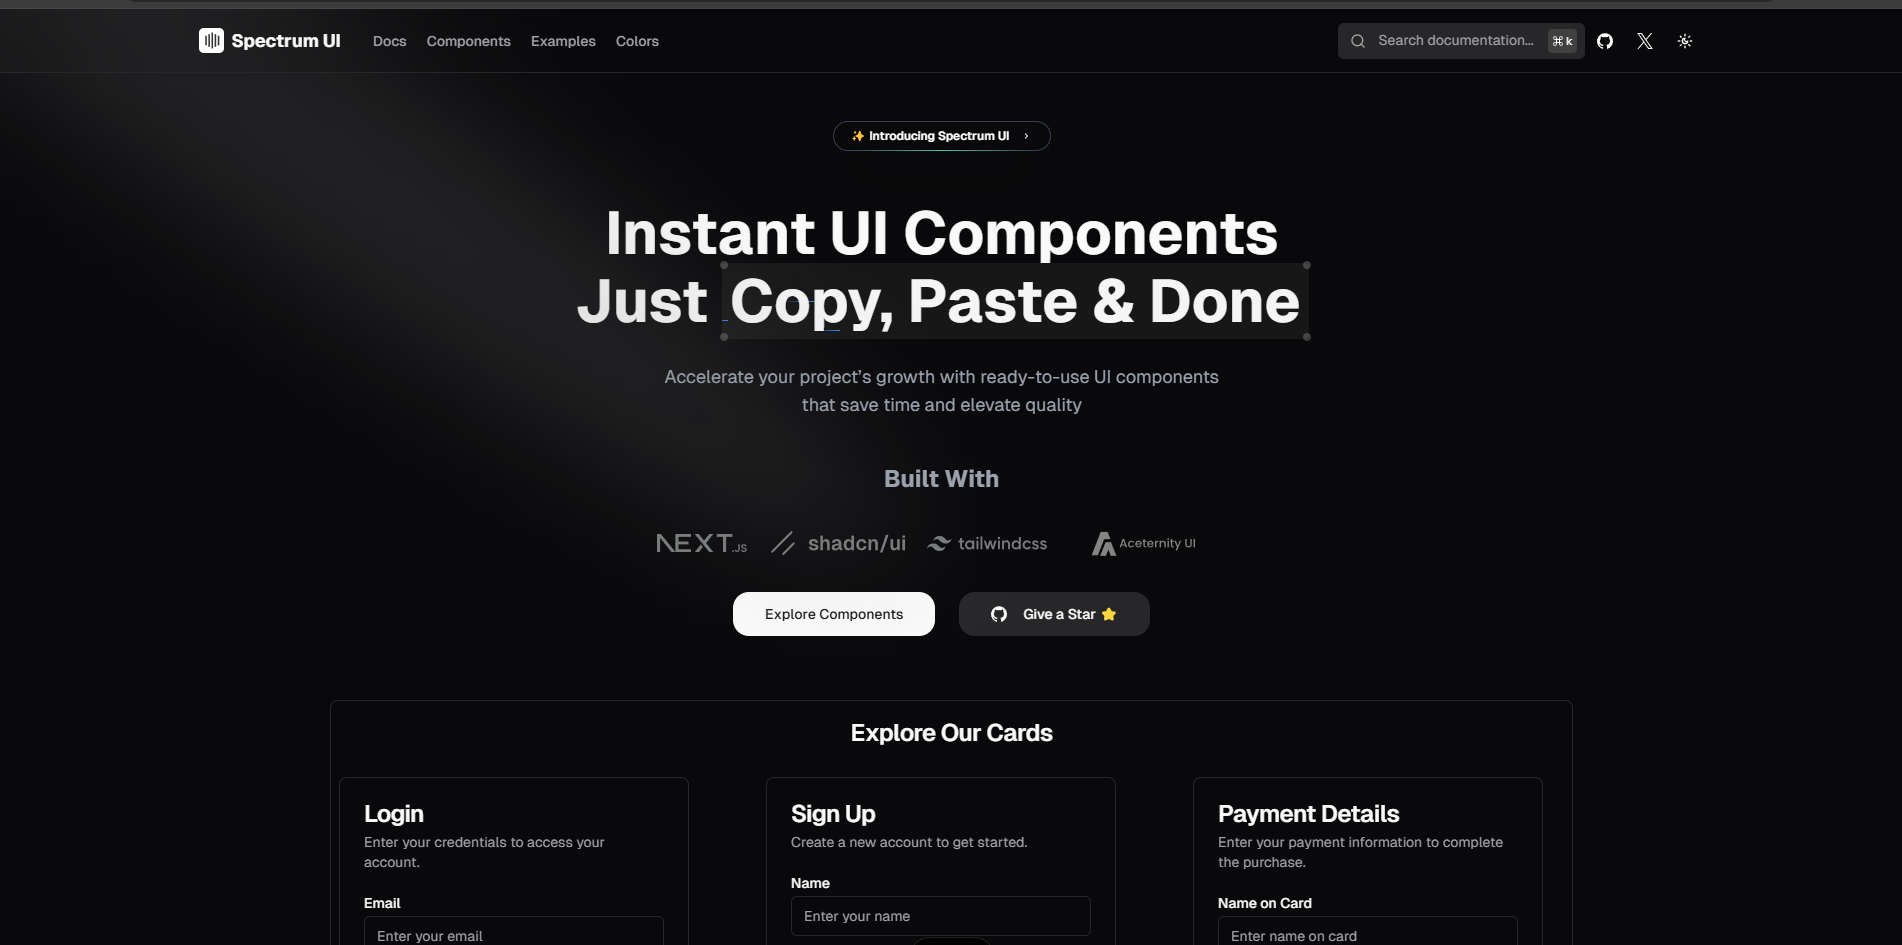
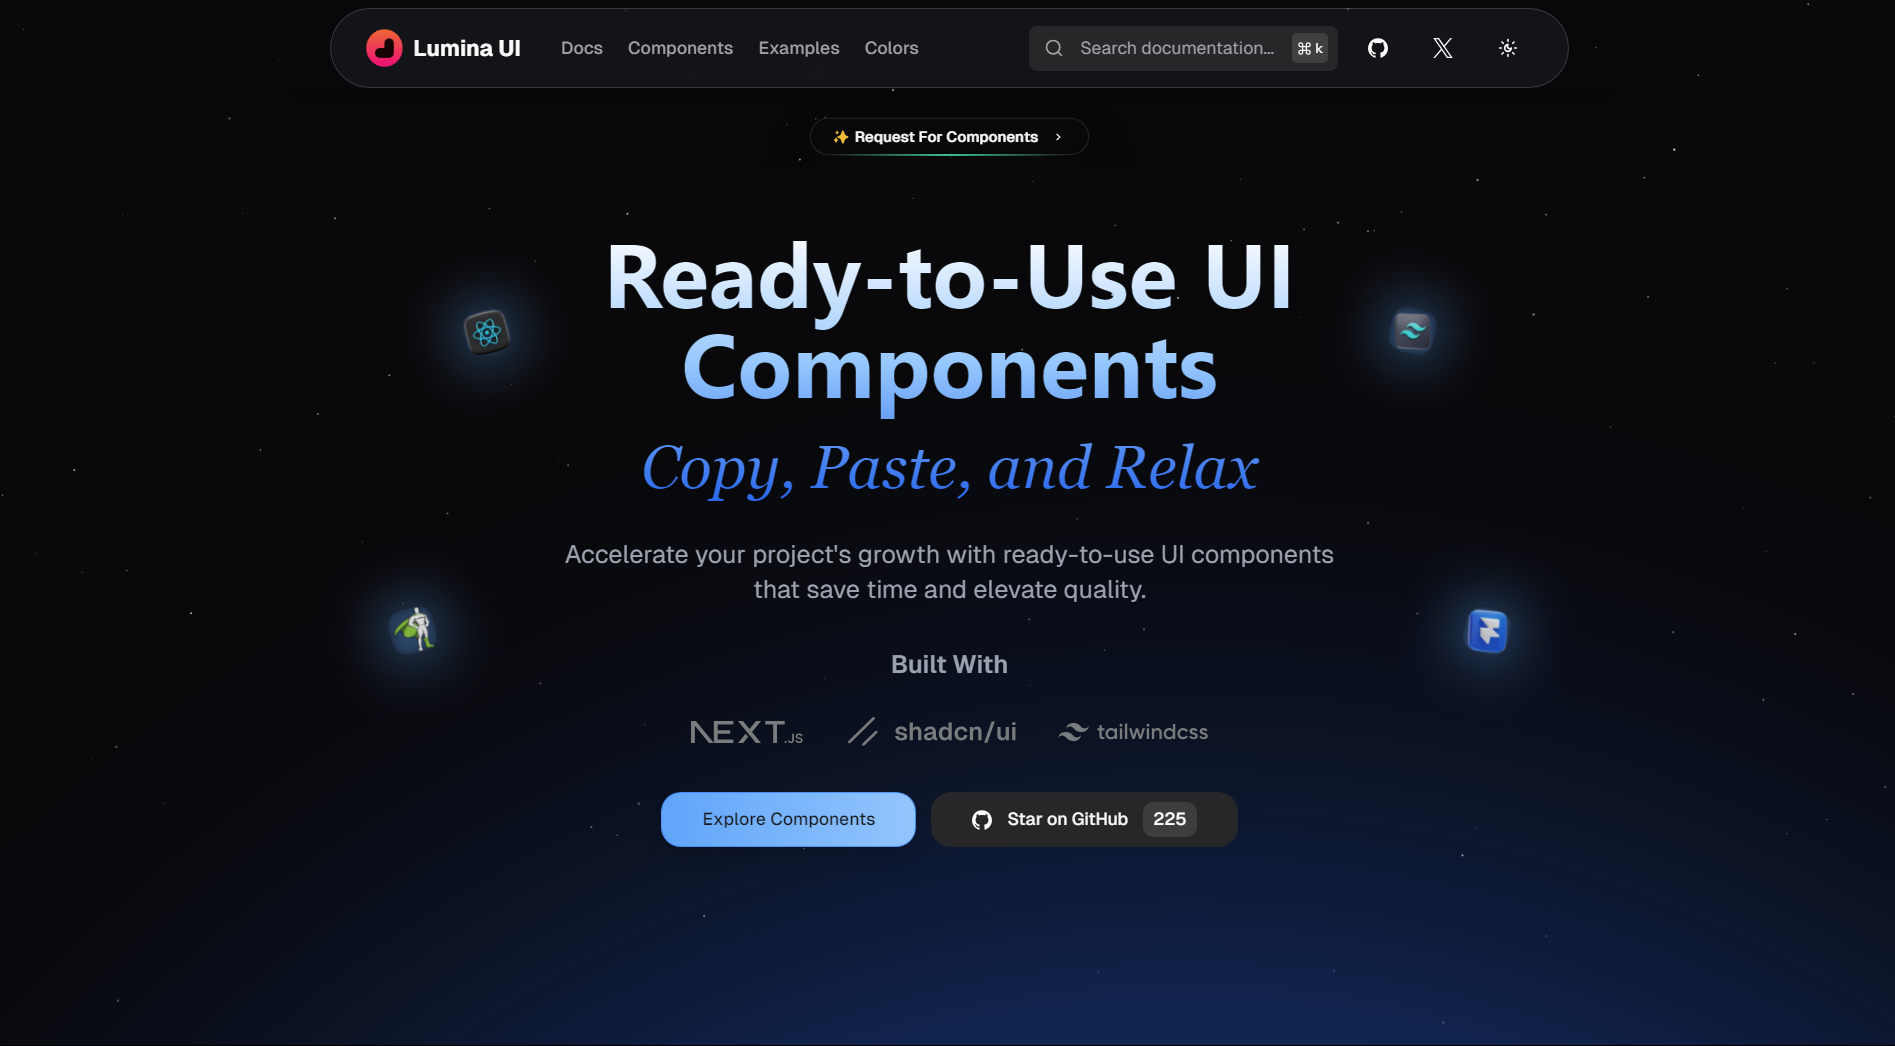
site configurations

diff --git a/app/layout.tsx b/app/layout.tsx
@@ -11,7 +11,6 @@ import { Analytics } from "@vercel/analytics/react";
 import { SpeedInsights } from "@vercel/speed-insights/next";
 import Script from "next/script";
 
-
 inject();
 
 export const metadata: Metadata = {
@@ -21,38 +20,11 @@ export const metadata: Metadata = {
   },
   metadataBase: new URL(siteConfig.url),
   description: siteConfig.description,
-  keywords: [
-    "Vercel",
-    "Next.js",
-    "React",
-    "Tailwind CSS",
-    "Server Components",
-    "Radix UI",
-    "Spectrum UI",
-    "UI Components",
-    "Design",
-    "100xdevs",
-    "web development",
-    "web design",
-    "starter template",
-    "Rohit",
-    "spectrum",
-    "bootstrap",
-    "tailwind",
-    "aceternity",
-    "shadcn ui",
-    ...siteConfig.keywords,
-  ],
-  authors: [
-    {
-      name: "Lumina UI",
-      url: siteConfig.url,
-    },
-    {
-      name: siteConfig.author.name,
-      url: siteConfig.author.url,
-    },
-  ],
+  keywords: siteConfig.keywords,
+  authors: siteConfig.authors.map((author) => ({
+    name: author.name,
+    url: author.url,
+  })),
   creator: "Rohit",
   openGraph: {
     type: "website",
@@ -70,7 +42,6 @@ export const metadata: Metadata = {
     images: [siteConfig.ogImage.url],
     creator: "@gutsy_coder",
   },
-
   manifest: `${siteConfig.url}/site.webmanifest`,
   robots: {
     index: true,
@@ -105,7 +76,10 @@ export default function RootLayout({
     <html lang={siteConfig.locale.split("-")[0]} suppressHydrationWarning>
       <head>
         <link rel="canonical" href={siteConfig.url} />
-        <link href="https://fonts.googleapis.com/css2?family=Anton+SC&family=Kanit:ital,wght@0,100;0,200;0,300;0,400;0,500;0,600;0,700;0,800;0,900;1,100;1,200;1,300;1,400;1,500;1,600;1,700;1,800;1,900&family=Oswald:wght@200..700&family=Rubik+Bubbles&family=Teko:wght@300..700&family=Urbanist:ital,wght@0,100..900;1,100..900&display=swap" rel="stylesheet"></link>
+        <link
+          href="https://fonts.googleapis.com/css2?family=Anton+SC&family=Kanit:ital,wght@0,100;0,200;0,300;0,400;0,500;0,600;0,700;0,800;0,900;1,100;1,200;1,300;1,400;1,500;1,600;1,700;1,800;1,900&family=Oswald:wght@200..700&family=Rubik+Bubbles&family=Teko:wght@300..700&family=Urbanist:ital,wght@0,100..900;1,100..900&display=swap"
+          rel="stylesheet"
+        ></link>
         <Script
           id="schema-org"
           type="application/ld+json"
@@ -116,11 +90,11 @@ export default function RootLayout({
               name: siteConfig.name,
               url: siteConfig.url,
               description: siteConfig.description,
-              author: {
+              author: siteConfig.authors.map((author) => ({
                 "@type": "Person",
-                name: siteConfig.author.name,
-                url: siteConfig.author.url,
-              },
+                name: author.name,
+                url: author.url,
+              })),
               license: siteConfig.license,
               version: siteConfig.version,
             }),
@@ -138,9 +112,7 @@ export default function RootLayout({
           disableTransitionOnChange
         >
           <Analytics />
-          <div
-            className="flex fixed top-0 left-0 w-full h- z-50 shadow-md items-center justify-center px-4"
-          >
+          <div className="flex fixed top-0 left-0 w-full h- z-50 shadow-md items-center justify-center px-4">
             <Navbar />
           </div>
 

diff --git a/config/site.ts b/config/site.ts
@@ -1,35 +1,56 @@
 export const siteConfig = {
   name: "Lumina UI",
-  url: "https://spectrumui.arihant.us",
+  url: "https://luminaui.in",
   ogImage: {
-    url: "https://spectrumui.arihant.us/og.png",
+    url: "https://luminaui.in/og.png",
 
-    alt: "Lumina UI - Beautiful and accessible React components",
+    alt: "Lumina UI - Ready-to-Use UI Components for Next.js",
   },
   description:
-    "Beautifully designed components that you can copy and paste into your apps. Accessible. Customizable. Open Source.",
-  links: {
-    twitter: "https://x.com/arihantcodes",
-    github: "https://github.com/arihantcodes",
-    linkedin: "https://www.linkedin.com/in/arihantcodes", // Update with your actual LinkedIn profile
-    // Update if you have a Facebook page
-    instagram: "https://www.instagram.com/arihantjainn18", // Update with your actual Instagram profile
-  },
-  author: {
-    name: "Rohit Kumar",
-    url: "https://rohitk.me",
-  },
+    "Ready-to-Use UI Components for Next.js. Accelerate your project's growth with UI components that save time and elevate quality.",
+  authors: [
+    {
+      name: "Rohit Kumar",
+      url: "https://rohitk.me",
+    },
+    {
+      name: "Aryan Pahuja",
+      url: "https://aryan-pahuja.vercel.app",
+    },
+    {
+      name: "Rohit Nayak",
+      url: "https://x.com/rohitn_2312",
+    },
+    {
+      name: "Murtaza Khan",
+      url: "https://x.com/murtazakhan1910",
+    },
+  ],
   keywords: [
+    "Lumina UI",
+    "luminaui",
+    "UI Components",
     "UI components",
-    "React",
+    "Next.js components",
+    "Tailwind components",
     "Next.js",
     "Tailwind CSS",
+    "React",
+    "Server Components",
+    "Vercel",
+    "Radix UI",
+    "Design",
+    "100xdevs",
+    "web development",
+    "web design",
+    "bootstrap",
+    "tailwind",
+    "aceternity",
+    "shadcn ui",
     "Accessible design",
-    "Open source",
     "Web development",
     "Frontend",
     "Design system",
-    "Spectrum UI",
   ],
   locale: "en-US",
   version: "1.0.0",
